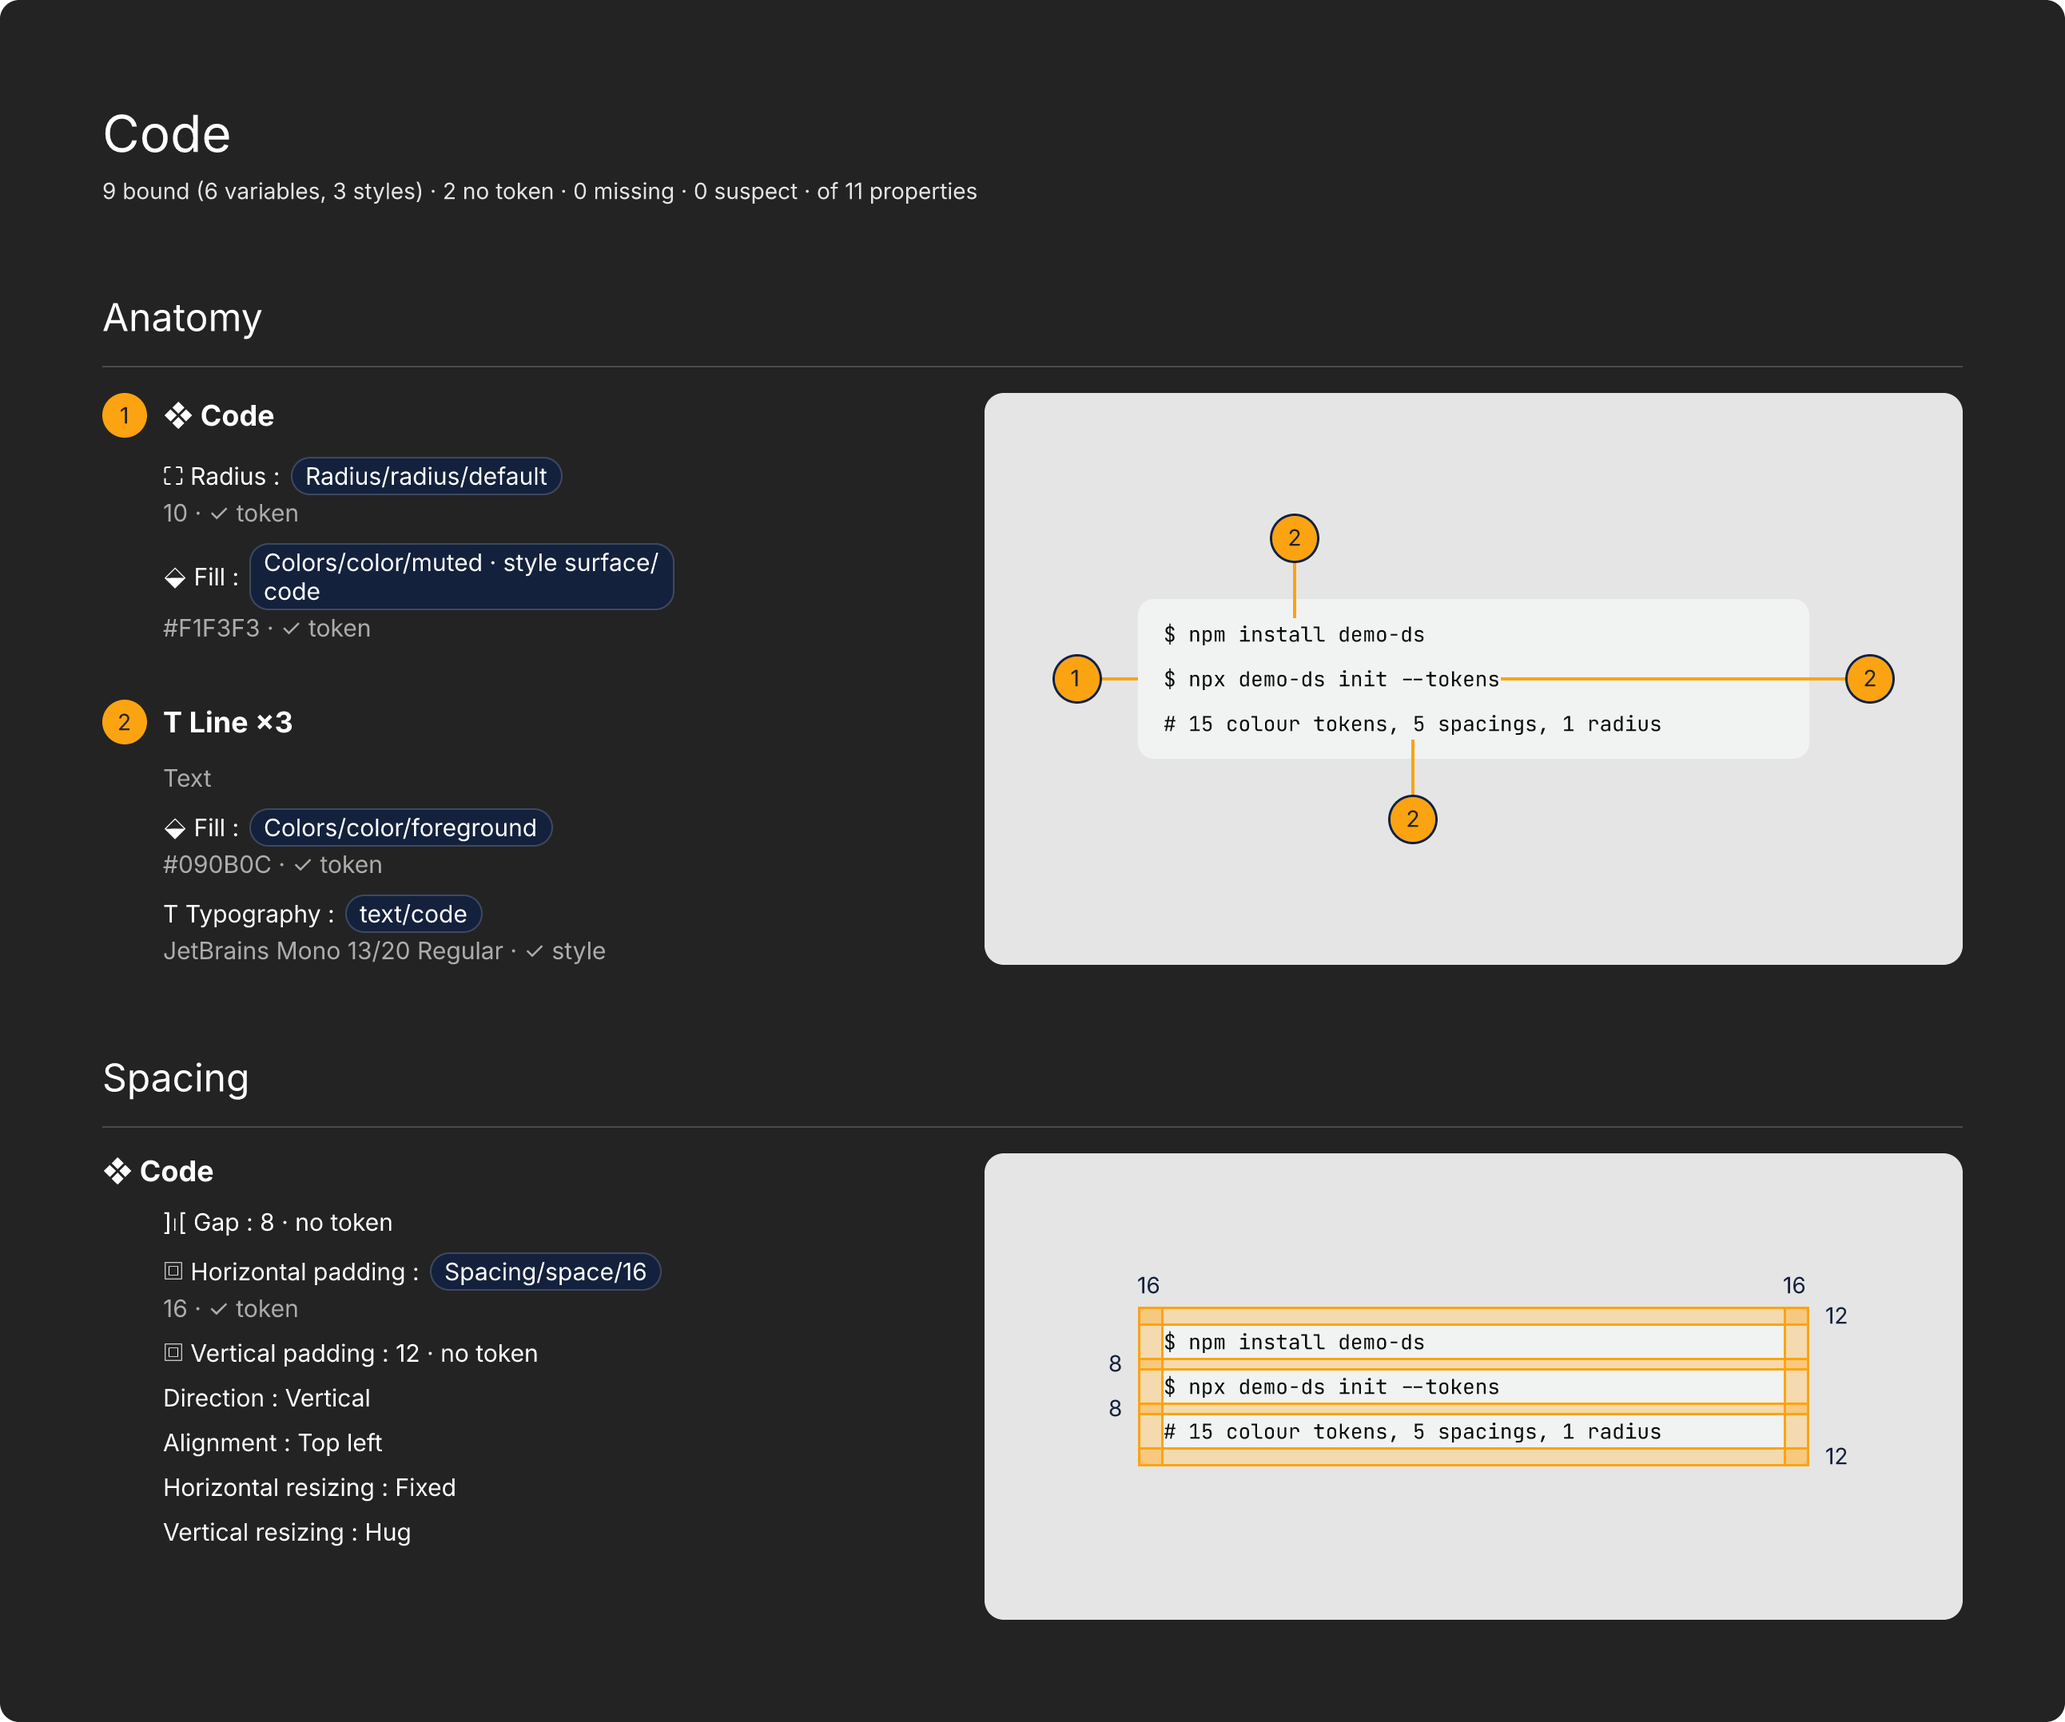
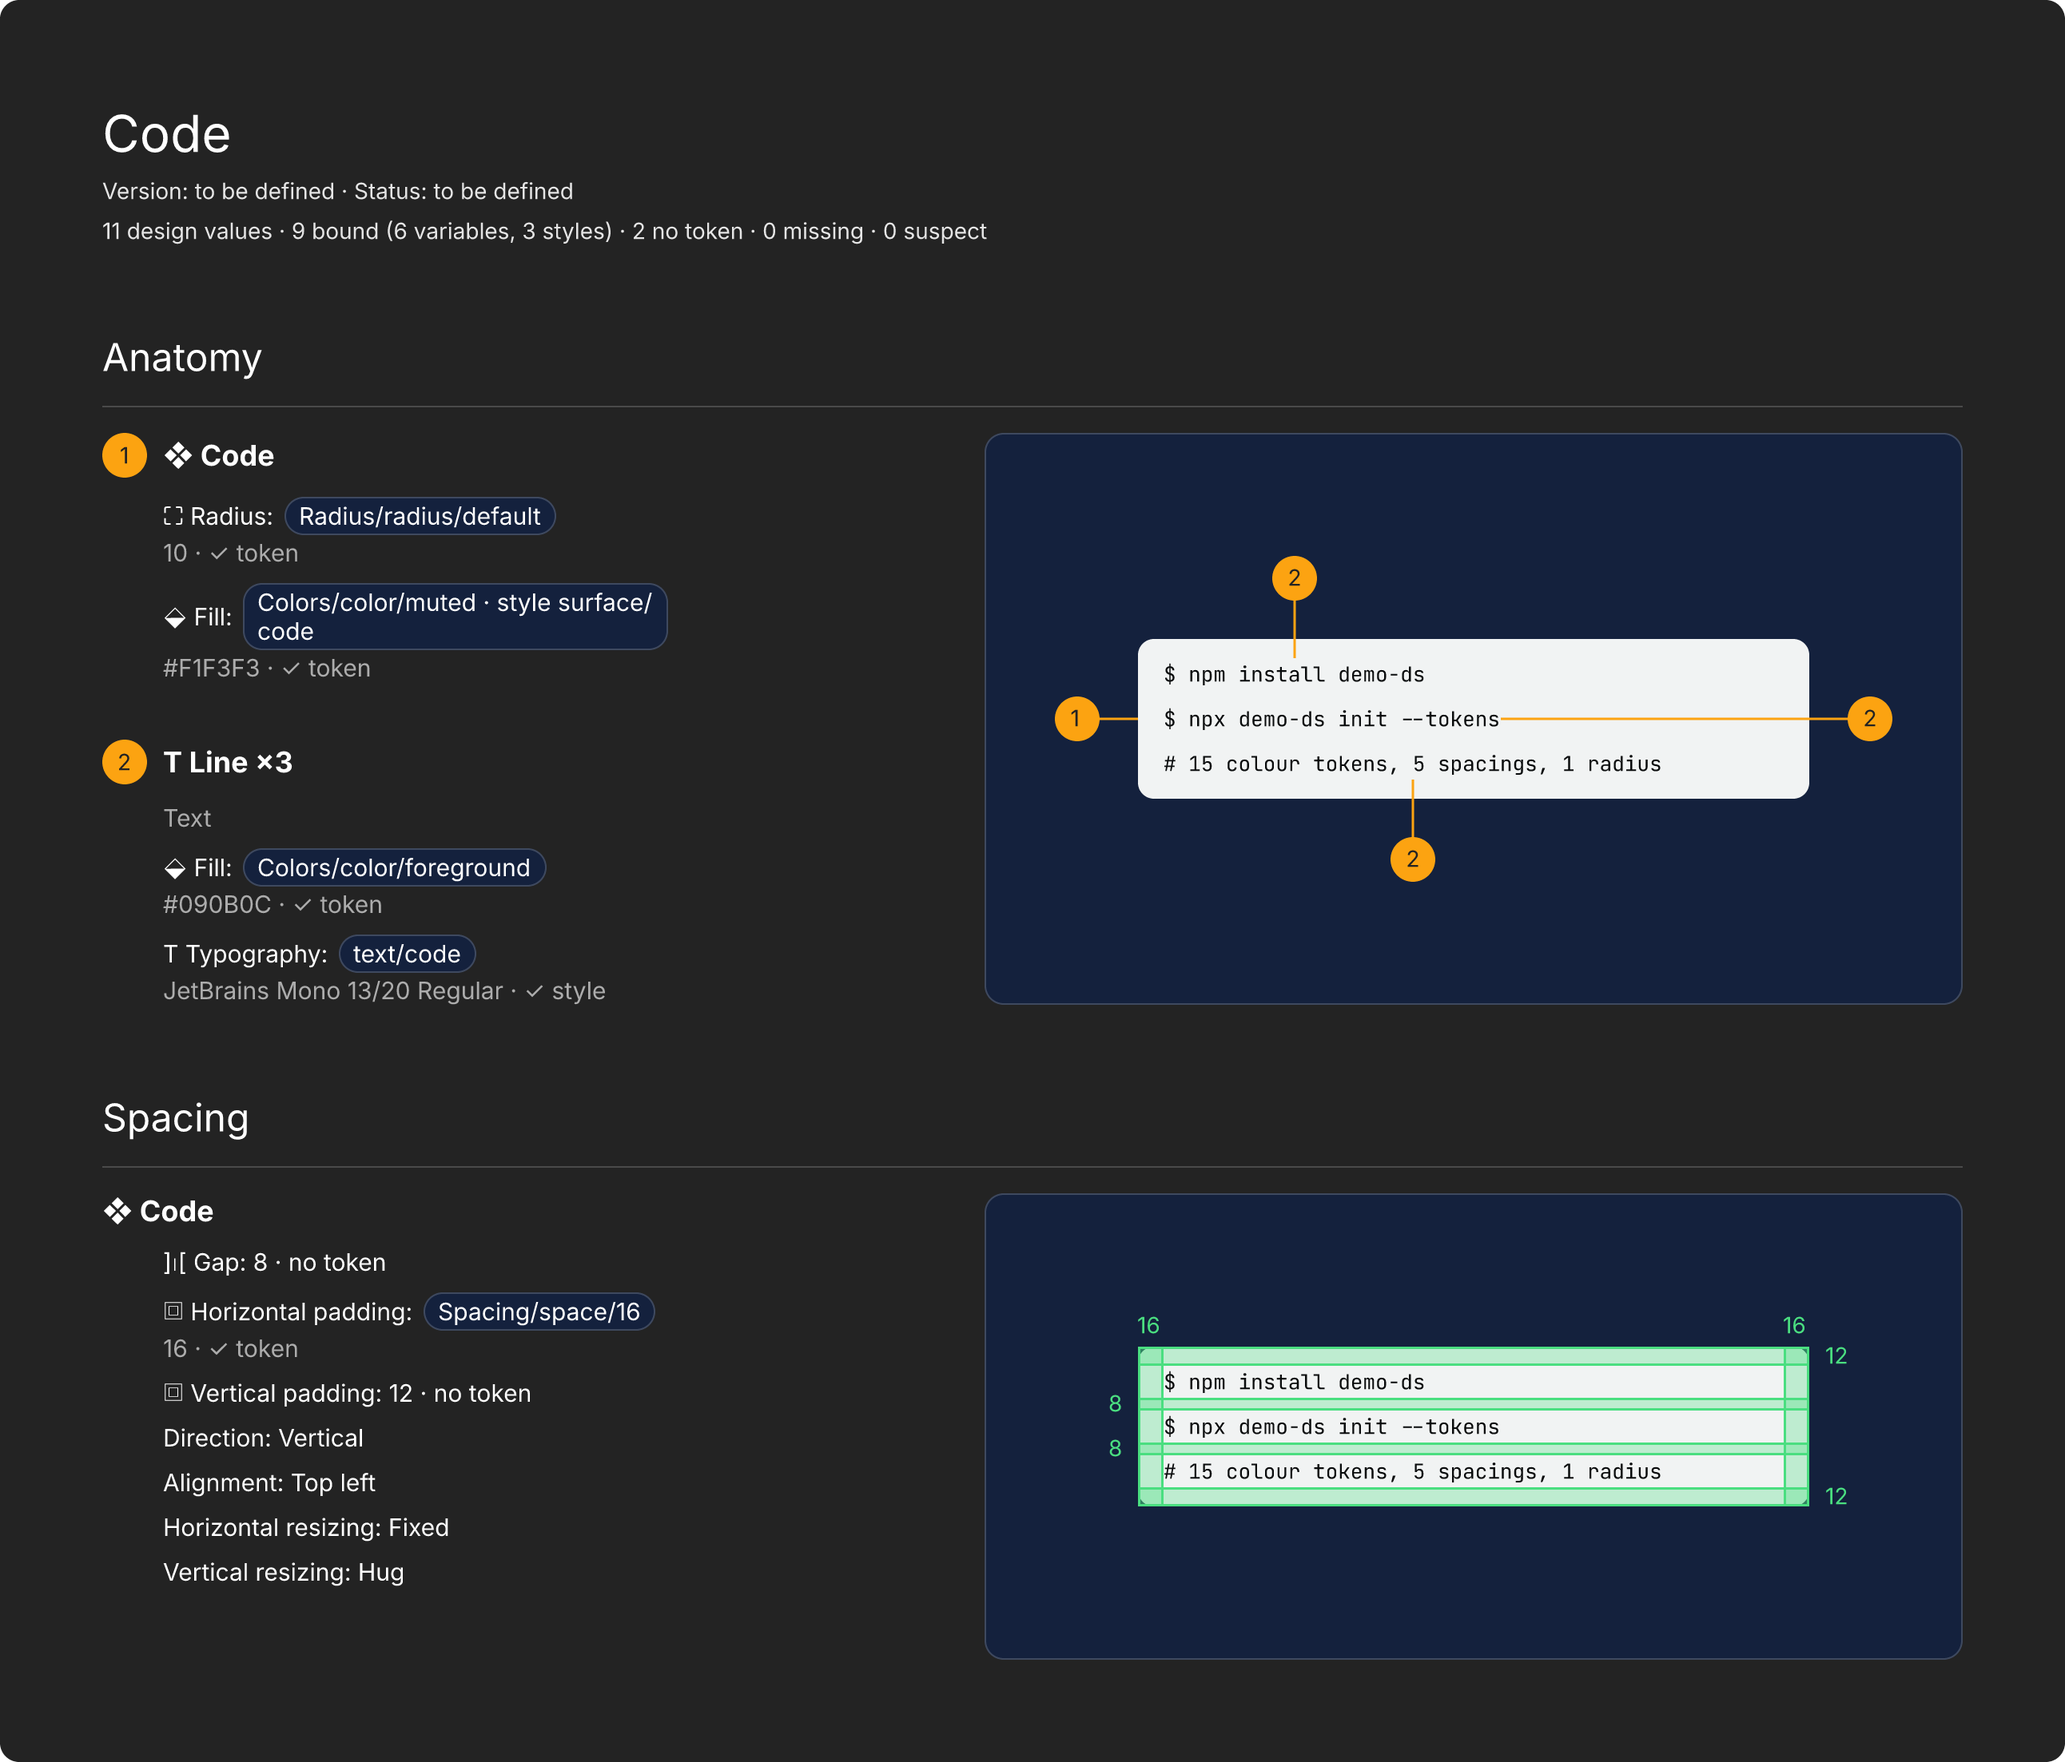
Fix the documentation placement text and regenerate the README sample images
The README said the documentation goes "at the same height"; the code puts
a new one 512 px right of the rightmost edge with its top at y = 0, and a
replacement takes the old one's place. Regenerated report-button, -card,
-accordion and -code as 2x PNG exports with the current plugin (fixed
palette, ": " separator). The relatorio-*.png files stay as historical.

Claude-Session: https://claude.ai/code/session_0159Zokv6Kf85oDuLGPqfd6p

diff --git a/docs/samples/README.md b/docs/samples/README.md
@@ -2,7 +2,7 @@
 
 The demo file for Handoff Components is the **DS Base Demo**, in [`../../demo/`](../../demo/README.md)
 (`demo/ds-base-demo.figcraft`, a small neutral design system built from scratch; MIT).
-Sample documentation images made from it (Button, Card, Accordion, Code) are in this folder: `report-*.png`. These images were made before the fixed palette, the instance effects margin and the `Label: value` separator (the lines are the old orange); they have not been regenerated yet.
+Sample documentation images made from it (Button, Card, Accordion, Code) are in this folder: `report-*.png`. They are 2x PNG exports of the documentation frame (the DS Base Demo, `lang` en, version and status left at their defaults), made with the plugin at 953bb57; the Card and Code ones come out on the dark stage because the stage is Auto. The `relatorio-*.png` files are older, historical samples (orange lines, older layouts) and are not regenerated.
 
 This folder also holds the recorded outputs of the probes and commands the plugin was built on, taken from
 the test fixtures in `tests/fixtures/` (`fixture-copia`, `fixture-copia-2`, `fixture-carga-v2`;
@@ -13,7 +13,7 @@ see `LEIA-ME.md`, in Portuguese). They are kept as reference for the host's comm
 1. Build the plugin with `scripts/build.sh`. It prints the absolute path of the manifest to import.
 2. In FigCraft: **Plugins ▸ Development ▸ Import plugin from manifest…**, pick `dist/figcraft-plugin.json`.
 3. Open `demo/ds-base-demo.figcraft`, select a component or a set, run **Plugins ▸ Handoff Components ▸ Generate documentation…** and press **Generate documentation** in the panel.
-   The documentation goes to the right of everything on the page, at the same height.
+   A new documentation goes 512 px to the right of the rightmost edge of everything on the page, with its top at y = 0; a rerun that replaces an earlier one takes its place.
 
 From a terminal (always write to another file, never over the original; `direct` makes it with no panel):
 
@@ -28,3 +28,13 @@ where `script.json` imports the plugin, selects a layer (look the id up by name 
  {"command": "select.set", "params": {"ids": [623]}},
  {"command": "plugin.run", "params": {"id": "me.benetti.handoff-components", "command": "generate", "params": {"direct": true}}}]
 ```
+
+### How the `report-*.png` images are made
+
+Run the plugin on the component from `demo/ds-base-demo.figcraft` (Button, Card, Accordion: the sets; Code: the component) with `direct` and `lang: en`, save to another file, then export the documentation frame at 2x:
+
+```sh
+figcraft-cli export out.figcraft --node <frame id> --format png --scale 2 --out report-card.png
+```
+
+The frame id is `output.frame` in the `plugin.run` result. A PNG of a frame taller than 8,192 px at 2x would pass 16,384 px, so a taller one needs 1x.

diff --git a/README.md b/README.md
@@ -18,7 +18,7 @@ Select a component or a set and run one command. The plugin writes the documenta
 - **A fixed palette**: the lines, markers and measures use fixed colours, by stage and by section (there is no colour setting). On the light stage the Anatomy is `#C54600` and the Spacing `#007D00`; on the dark stage they are `#FCA311` and `#4ADE80`. The number inside a marker is white on the light stage and dark (`#232323`) on the dark one.
 - **A stage that fits the effects**: every picture sits on a stage (`#E5E5E5` light, `#14213D` dark, rounded and clipped). The stage grows when the instance has a shadow or a blur that would be cut by the clip, by up to 400 px per side.
 - **One SVG export**: the documentation frame is born with a single export setting, SVG at 1x with no suffix, whatever its height (a PNG fails above 16,384 px; SVG has no such limit). The SVG draws text as outlines and its files are big: about 2.6 MB for the DS Base Demo's Card and about 7.3 MB for the 25,922 px test case (measured with figcraft-cli 0.18.1).
-- **Same page, one click**: the documentation goes to the right of everything on the page (512 px away, with its top at y = 0). (Inside the file the frame keeps the old pluginData key `handoff-report`, so a rerun still replaces documentation made by earlier versions.)
+- **Same page, one click**: a new documentation goes 512 px to the right of the rightmost edge of everything on the page, with its top at y = 0 (not at the height of anything). When it replaces an earlier documentation of the same component, it takes that one's place instead. (Inside the file the frame keeps the old pluginData key `handoff-report`, so a rerun still replaces documentation made by earlier versions.)
 
 More samples: [Button](docs/samples/report-button.png), [Card](docs/samples/report-card.png),
 [Accordion](docs/samples/report-accordion.png).
